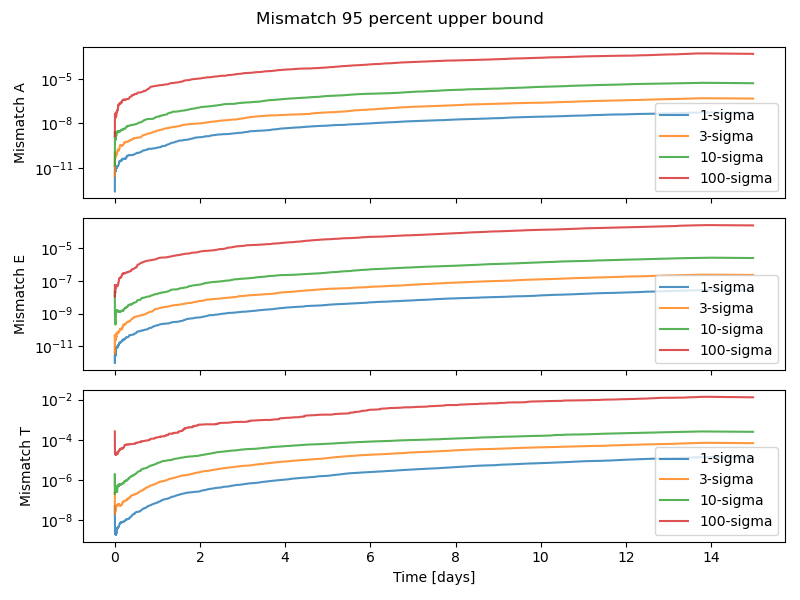
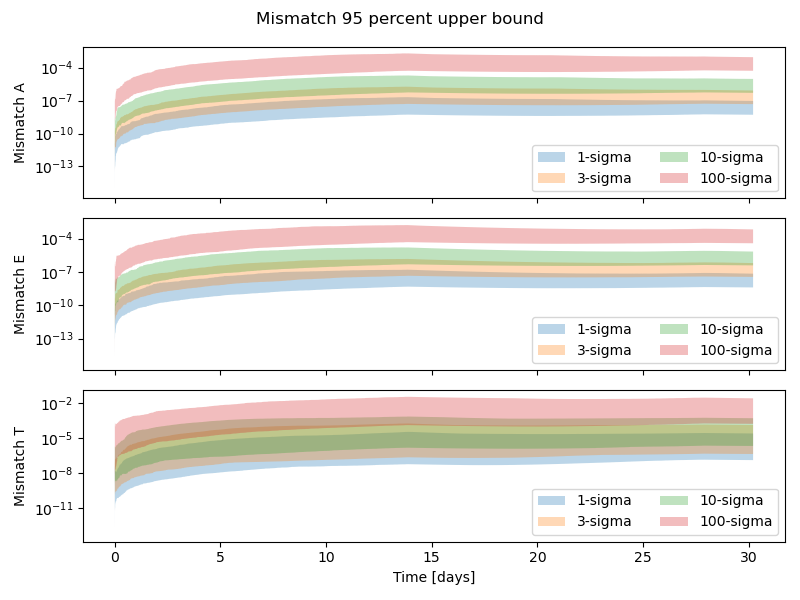
new report

diff --git a/postprocess.py b/postprocess.py
@@ -28,52 +28,52 @@ for h5file_name in list_h5:
             mismatch_data = h5file[f"{group_name}/mismatch"][:]  # Shape: (Ndraws, 3, time)
 
             # Compute mean and standard deviation for RMS and mismatch
-            mismatch_mean = np.quantile(mismatch_data, 0.95, axis=0)  # Shape: (3, time)
-            mismatch_std = np.std(mismatch_data, axis=0)   # Shape: (3, time)
+            mismatch_upp = np.quantile(mismatch_data, 0.975, axis=0)  # Shape: (3, time)
+            mismatch_low = np.quantile(mismatch_data, 0.025, axis=0)  # Shape: (3, time)
 
             # Plot mismatch
             for i, lab in enumerate(labels):
-                ax_mismatch[i].semilogy(time[5:]/86400, mismatch_mean[i][5:], label=f"{int(delta_x)}-sigma", alpha=0.8)
-                # ax_mismatch[i].fill_between(time, mismatch_mean[i] - mismatch_std[i], mismatch_mean[i] + mismatch_std[i], alpha=0.3)
+                # ax_mismatch[i].semilogy(time[5:]/86400, mismatch_upp[i][5:], label=f"{int(delta_x)}-sigma", alpha=0.8)
+                ax_mismatch[i].fill_between(time[5:]/86400, mismatch_low[i][5:], mismatch_upp[i][5:], alpha=0.3, label=f"{int(delta_x)}-sigma")
+                ax_mismatch[i].set_yscale("log")
 
         # Finalize mismatch plot
         for i, lab in enumerate(labels):
             ax_mismatch[i].set_ylabel(f"Mismatch {lab}")
-            ax_mismatch[i].legend()#fontsize="small", loc="upper right")
+            ax_mismatch[i].legend(ncol=2)#fontsize="small", loc="upper right")
         ax_mismatch[-1].set_xlabel("Time [days]")
         plt.tight_layout()
         plt.savefig(os.path.join(results_dir, f"mismatch_upper95_{h5file_name.split('.h5')[0]}.png"))
         plt.close(fig_mismatch)
 
-    print("Mean RMS and mismatch plots with error bars saved in the 'results' directory.")
+        print("Mean RMS and mismatch plots with error bars saved in the 'results' directory.")
 
-    # Load data from the HDF5 file
-    # with h5py.File(h5file_path, "r") as h5file:
-    #     sigma_vec = h5file["sigma_vec"][:]
-    #     parameters = h5file["parameters"][:]  # Shape: (Ndraws, 8), assuming last two are lambda and beta
-    #     Ndraws = len(parameters)
+        # Load data from the HDF5 file
+        sigma_vec = h5file["sigma_vec"][:]
+        parameters = h5file["parameters"][:]  # Shape: (Ndraws, 8), assuming last two are lambda and beta
+        Ndraws = len(parameters)
 
-    #     # Extract sky location parameters (lambda and beta)
-    #     sky_lambda = parameters[:, 6]  # Assuming column 6 is lambda
-    #     sky_beta = parameters[:, 7]    # Assuming column 7 is beta
+        # Extract sky location parameters (lambda and beta)
+        sky_lambda = parameters[:, 6]  # Assuming column 6 is lambda
+        sky_beta = parameters[:, 7]    # Assuming column 7 is beta
 
-    #     # Initialize scatter plot for mismatch
-    #     for delta_x in sigma_vec:
-    #         group_name = f"sigma_{int(delta_x)}"
-    #         mismatch_data = h5file[f"{group_name}/mismatch"][:]  # Shape: (Ndraws, 3, time)
+        # Initialize scatter plot for mismatch
+        for delta_x in sigma_vec:
+            group_name = f"sigma_{int(delta_x)}"
+            mismatch_data = h5file[f"{group_name}/mismatch"][:]  # Shape: (Ndraws, 3, time)
 
-    #         # Compute the mean mismatch over time for each realization
-    #         ind_channel = 0  # Assuming we are interested in the first channel
-    #         final_mism = mismatch_data[:,ind_channel,-1]
-    #         # Create scatter plot
-    #         plt.figure(figsize=(8, 6))
-    #         scatter = plt.scatter(sky_lambda, sky_beta, c=final_mism, cmap="viridis", s=50, edgecolor="k")
-    #         plt.colorbar(scatter, label="Mismatch")
-    #         plt.xlabel("Sky Location Parameter λ (radians)")
-    #         plt.ylabel("Sky Location Parameter β (radians)")
-    #         plt.title(f"Sky Location vs Mismatch for {int(delta_x)}-sigma")
-    #         plt.grid(alpha=0.3)
-    #         plt.savefig(os.path.join(results_dir, f"{h5file_name.split('.h5')[0]}_sky_location_mismatch_sigma_{int(delta_x)}_channel{ind_channel}.png"))
-    #         plt.close()
+            # Compute the mean mismatch over time for each realization
+            ind_channel = 0  # Assuming we are interested in the first channel
+            final_mism = np.log10(mismatch_data[:,ind_channel,-1])
+            # Create scatter plot
+            plt.figure(figsize=(8, 6))
+            scatter = plt.scatter(sky_lambda, sky_beta, c=final_mism, cmap="viridis", s=50, edgecolor="k")
+            plt.colorbar(scatter, label="log10 Mismatch")
+            plt.xlabel("Sky Location Parameter λ (radians)")
+            plt.ylabel("Sky Location Parameter β (radians)")
+            plt.title(f"Sky Location vs Mismatch for {int(delta_x)}-sigma")
+            plt.grid(alpha=0.3)
+            plt.savefig(os.path.join(results_dir, f"sky_location_mismatch_sigma_{int(delta_x)}_channel{ind_channel}_{h5file_name.split('.h5')[0]}.png"))
+            plt.close()
 
-    print("Sky location mismatch scatter plots saved in the 'results' directory.")
+        print("Sky location mismatch scatter plots saved in the 'results' directory.")

diff --git a/report.tex b/report.tex
@@ -1,0 +1,83 @@
+% filepath: /Users/lorenzo.speri/Library/CloudStorage/OneDrive-ESA/Documents/GitHub/ResponseRequirements/results_report.tex
+\documentclass[a4paper,12pt]{article}
+\usepackage{graphicx}
+\usepackage{caption}
+\usepackage{subcaption}
+\usepackage{amsmath}
+\usepackage{hyperref}
+\usepackage{geometry}
+\geometry{margin=1in}
+
+\title{Results Report}
+\author{}
+\date{\today}
+
+\begin{document}
+
+\maketitle
+
+% \tableofcontents
+% \newpage
+
+\section{Introduction}
+This document presents the results of the impact of uncertainty on the LISA spacecraft positions on the TDI outputs of a gravitational wave signal, here assumes to be a galactic binary. The analysis is based on the LISA TDI framework and includes the calculation of mismatch for the channels (A, E, T). 
+The analysis is performed for different values of the frequency $f$ and averaged over different inclination, polarization angles and sky location parameters. The spacecrafts are in a heliocentric orbit with a period of 1 month. The spacecrafts are located at the vertices of an equilateral triangle with a side length of 2.5 million km as shown in Figure~\ref{fig:lisa_orbit}. 
+ 
+\begin{figure}
+    \centering
+    \includegraphics[width=0.5\textwidth]{3d_orbit_around_sun.png}
+    \caption{LISA orbit around the Sun for one month.}
+    \label{fig:lisa_orbit}
+\end{figure}
+
+We vary the orbits of the LISA spacecrafts according the worst values of \href{https://doi.org/10.1007/s40295-021-00263-2}{Trajectory Design for the ESA LISA Mission} which are of order $10^3$ kms in the LISA local frame. This leads to variation in the spacecraft positions as shown in Figure\ref{fig:sc_deviation}.
+
+\begin{figure}
+    \centering
+    \includegraphics[width=0.9\textwidth]{orbits_deviation.png}
+    \caption{LISA spacecraft 1 position deviations in the SSB frame for 1-sigma values.}
+    \label{fig:sc_deviation}
+\end{figure}
+
+\begin{figure}
+    \centering
+    \includegraphics[width=0.9\textwidth]{radius_deviation.png}
+    \caption{Radius of the deviation for LISA spacecraft 1 for different sigma values.}
+    \label{fig:sc_radius_deviation}
+\end{figure}
+
+
+\section{Mismatch Plots}
+The following figures show the mismatch 95\% upper bounds for different $\sigma$ values and channels (A, E, T).
+
+\subsection{Mismatch 95\% Upper Bound}
+\begin{figure}[h!]
+    \centering
+    \includegraphics[width=\textwidth]{results/mismatch_upper95_tdi_deviation_A1.084702251e-22_f0.0001_fdot1.47197271e-17.png}
+    \caption{Mismatch 95\% upper bound for all channels and $\sigma$ values.}
+    \label{fig:mismatch_upper95_1e-4}
+\end{figure}
+
+\begin{figure}
+    \centering
+    \includegraphics[width=\textwidth]{results/mismatch_upper95_tdi_deviation_A1.084702251e-22_f0.001_fdot1.47197271e-17.png}
+    \caption{Mismatch 95\% upper bound for all channels and $\sigma$ values.}
+    \label{fig:mismatch_upper95_1e-3}
+\end{figure}
+
+\begin{figure}
+    \centering
+    \includegraphics[width=\textwidth]{results/mismatch_upper95_tdi_deviation_A1.084702251e-22_f0.01_fdot1.47197271e-17.png}
+    \caption{Mismatch 95\% upper bound for all channels and $\sigma$ values.}
+    \label{fig:mismatch_upper95_1e-2}
+\end{figure}
+\newpage
+
+\section{RMS Plots}
+The following figures show the RMS mean and error bars for different $\sigma$ values and channels (A, E, T).
+
+
+\section{Conclusion}
+The results demonstrate the behavior of mismatch and RMS for different $\sigma$ values and channels. The sky location scatter plots provide additional insights into the relationship between mismatch and sky location parameters.
+
+\end{document}

diff --git a/assess_impact.py b/assess_impact.py
@@ -14,7 +14,7 @@ from utils import *
 import os
 
 fpath = "new_orbits.h5"
-T = 0.5/12  # years
+T = 1.0/12  # years
 plot_orbit_3d(fpath, T)
 
 ################################################################
@@ -149,7 +149,7 @@ channel_generator = [get_response(orb_dev) for orb_dev in orbit_list]
 # Create results directory if it doesn't exist
 os.makedirs("results", exist_ok=True)
 # randomly draw the sky coordinates
-Ndraws = 5
+Ndraws = 100
 for f in [1e-4, 1e-3, 1e-2]:
     par_list = np.asarray([draw_parameters(A=A, f=f, fdot=fdot) for i in range(Ndraws)])
     fname = f"results/tdi_deviation_A{A}_f{f}_fdot{fdot}.h5"
